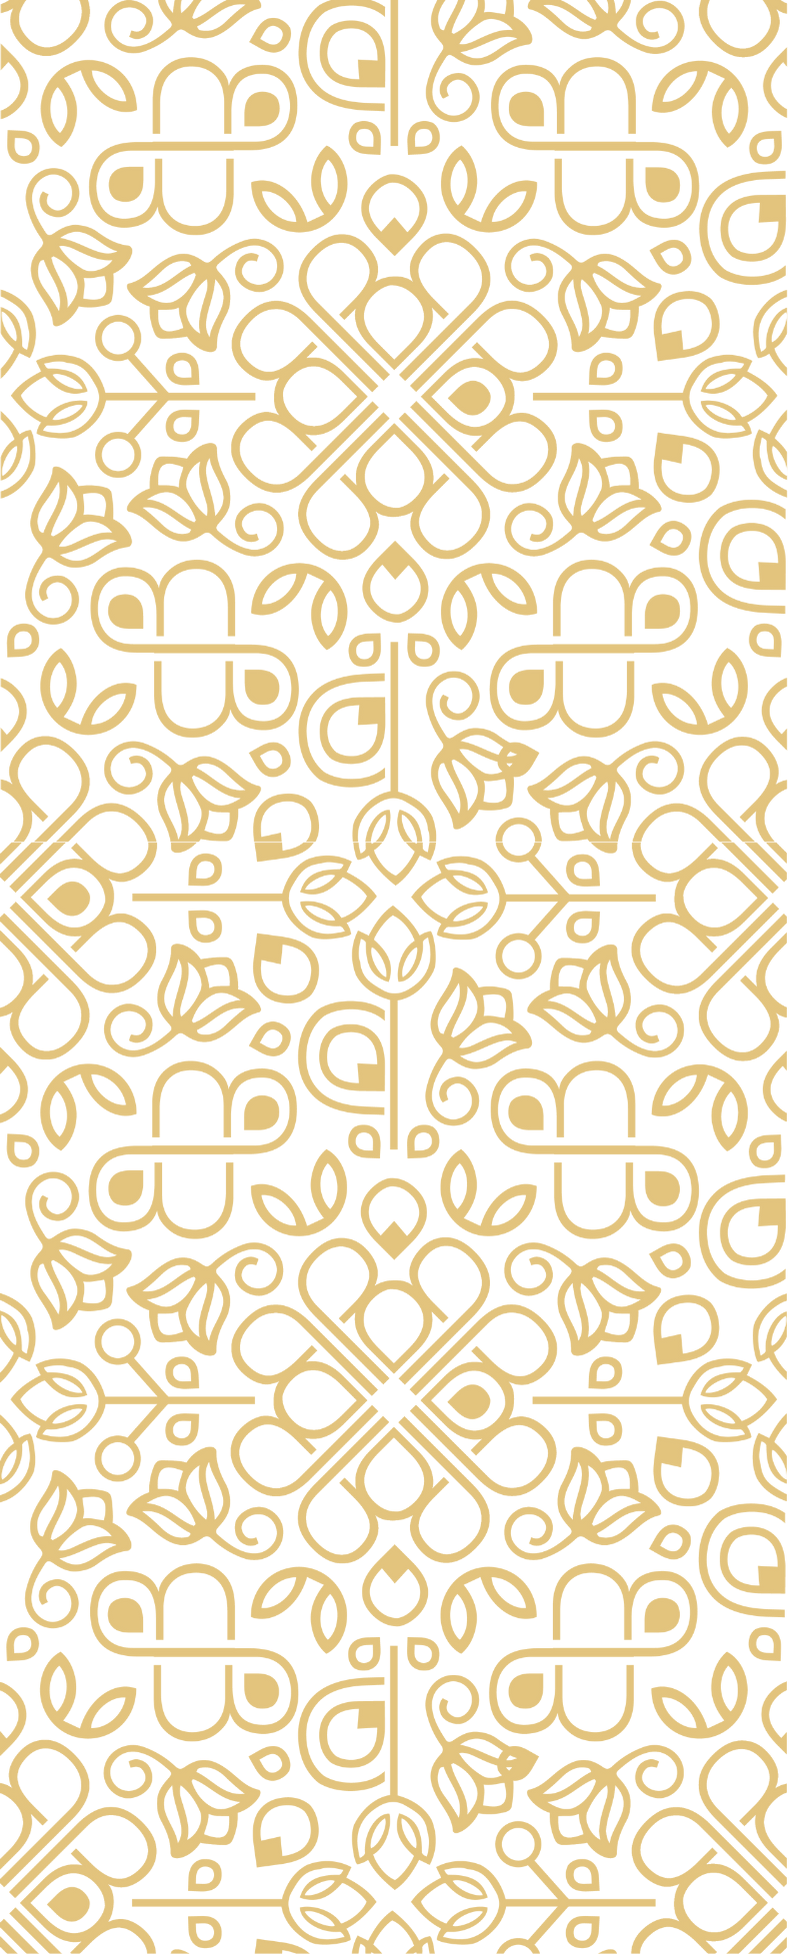
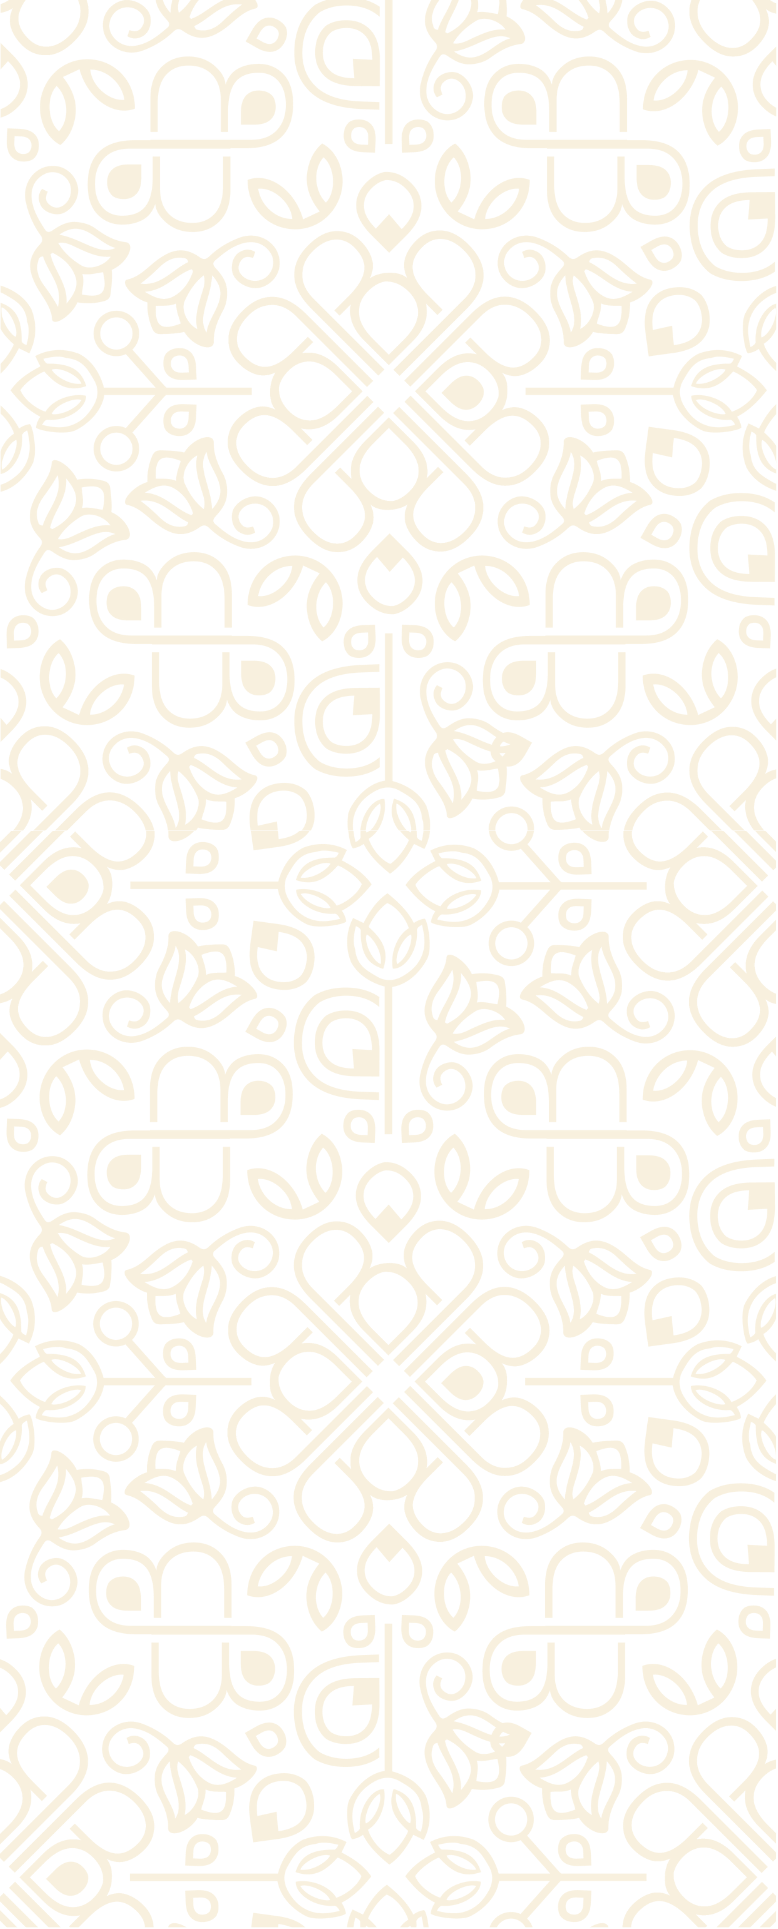
mais uma vez o tal do fundo

diff --git a/src/components/atoms/Background/styled.js b/src/components/atoms/Background/styled.js
@@ -1,0 +1,14 @@
+import styled from "styled-components/native";
+import { ImageBackground } from "react-native";
+const Container = styled.View`
+  flex: 1;
+  background-color: #010000;
+`;
+
+const BackgroundImage = styled(ImageBackground)`
+  flex: 1;
+  resize-mode: cover;
+  justify-content: center;
+  padding-left: 16px;
+  padding-right: 16px;
+`;

diff --git a/src/components/atoms/Background/index.js b/src/components/atoms/Background/index.js
@@ -1,0 +1,13 @@
+const Background = ({ children }) => {
+  return (
+    <Container>
+      <BackgroundImage
+        source={require("../../assets/images/FundoBellissare.png")}
+      >
+        {children}
+      </BackgroundImage>
+    </Container>
+  );
+};
+
+export default Background;
